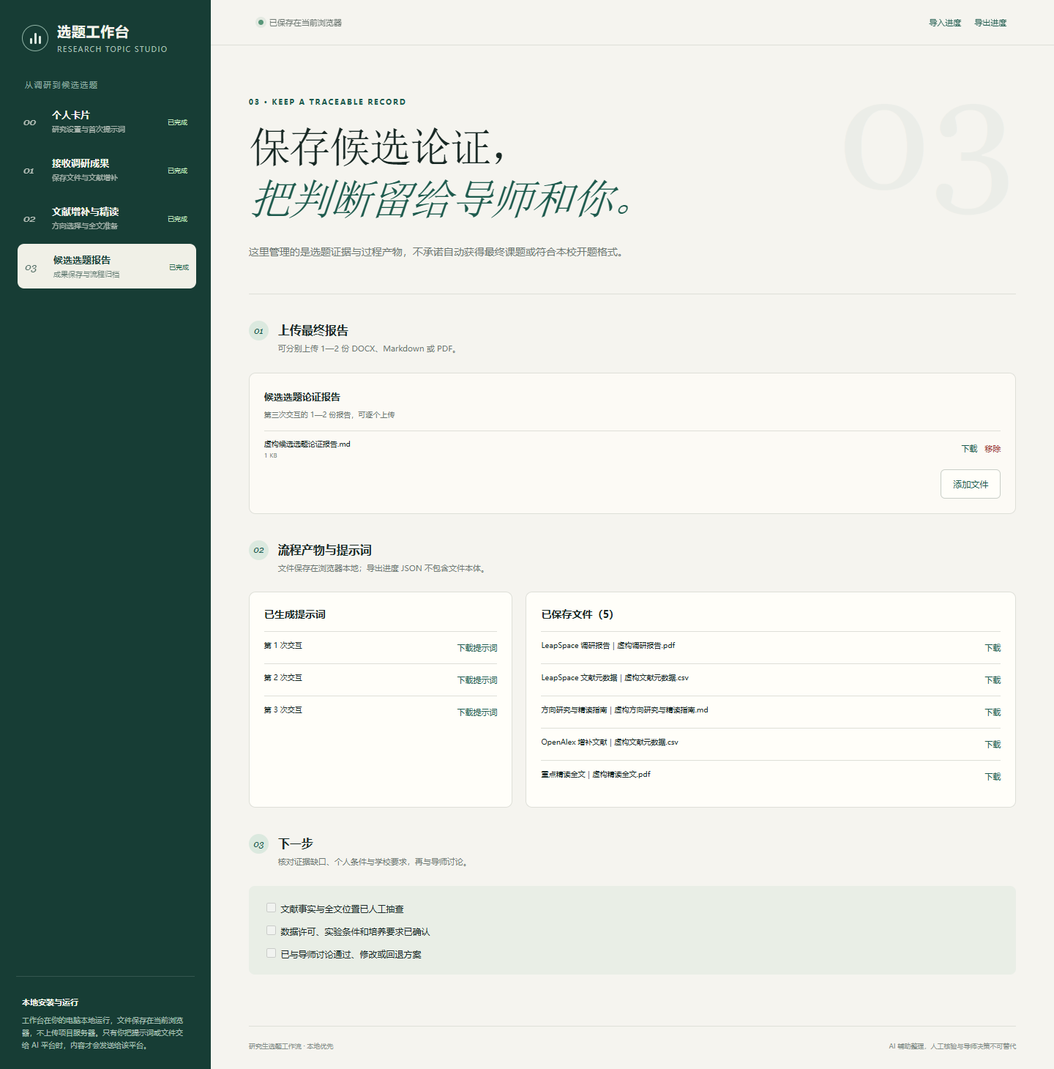
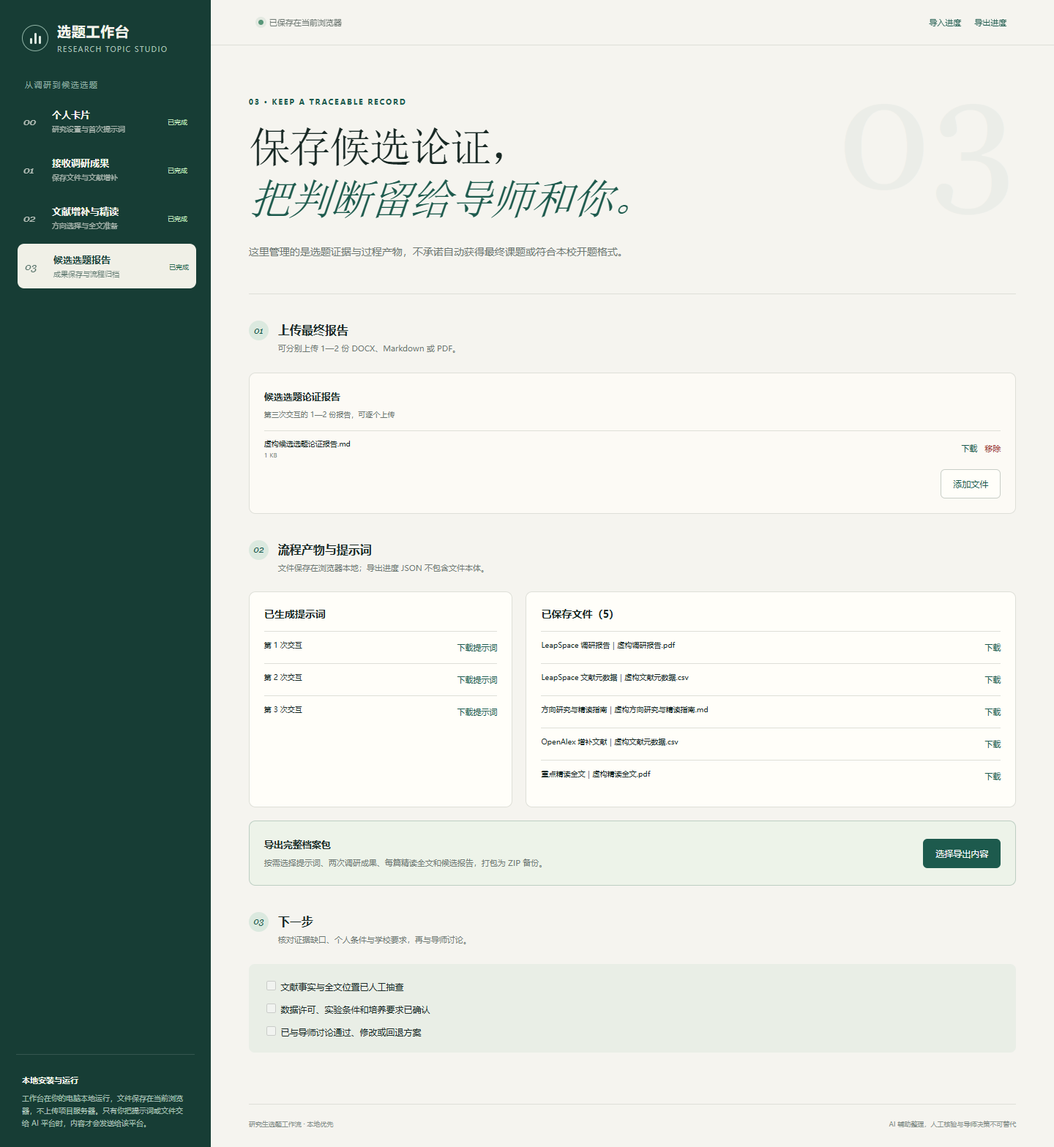
feat: add selective archive export

diff --git a/app/src/main.js b/app/src/main.js
@@ -2,6 +2,7 @@ import './style.css';
 import { hydrateState, demoProfile, demoDirections, artifactDefinitions, readingSlots, normalizeReadingCount } from './data.js';
 import { buildFirstPrompt, buildSecondPrompt, buildThirdPrompt } from './prompts.js';
 import { loadState, saveState as persistState, putFile, getFile, deleteFile, downloadBlob } from './storage.js';
+import { archiveEntries, createArchive, profileMarkdown } from './archive.js';
 
 let state = loadState();
 let toastTimer;
@@ -135,13 +136,21 @@ document.querySelector('#app').innerHTML = `
         ${artifactCard('finalReport')}
         <div class="section-heading"><div><span class="section-index">02</span><div><h2>流程产物与提示词</h2><p>文件保存在浏览器本地；导出进度 JSON 不包含文件本体。</p></div></div></div>
         <div id="archive-summary" class="archive-summary"></div>
+        <div class="archive-export-bar"><div><strong>导出完整档案包</strong><p>按需选择提示词、两次调研成果、每篇精读全文和候选报告，打包为 ZIP 备份。</p></div><button class="primary-button" id="open-archive-export">选择导出内容</button></div>
         <div class="section-heading"><div><span class="section-index">03</span><div><h2>下一步</h2><p>核对证据缺口、个人条件与学校要求，再与导师讨论。</p></div></div></div>
         <div class="final-checks"><label><input type="checkbox" disabled> 文献事实与全文位置已人工抽查</label><label><input type="checkbox" disabled> 数据许可、实验条件和培养要求已确认</label><label><input type="checkbox" disabled> 已与导师讨论通过、修改或回退方案</label></div>
       </section>
     </main>
     <footer><span>研究生选题工作流 · 本地优先</span><span>AI 辅助整理，人工核验与导师决策不可替代</span></footer>
   </div>
-</div><div id="toast" class="toast" role="status" aria-live="polite"></div>`;
+</div><div id="toast" class="toast" role="status" aria-live="polite"></div>
+<dialog id="archive-dialog" class="archive-dialog" aria-labelledby="archive-dialog-title">
+  <div class="archive-dialog-heading"><div><h2 id="archive-dialog-title">选择档案包内容</h2><p>所有已上传的中间产物都可以独立选择，默认全选。</p></div><button class="text-button" id="close-archive-dialog" aria-label="关闭导出窗口">关闭</button></div>
+  <div class="archive-selection-tools"><div><button class="subtle-button" id="archive-select-all">全选</button><button class="subtle-button" id="archive-select-none">清空</button></div><span id="archive-selected-count"></span></div>
+  <div id="archive-options" class="archive-options"></div>
+  <div class="privacy-note"><strong>档案包不包含工作台保存的 API key。</strong><span>进度 JSON 和生成的提示词会移除 key；上传文件按原内容打包，请自行检查敏感信息。ZIP 用于本地备份与文件取回，不是进度导入格式。</span></div>
+  <div class="archive-dialog-actions"><button class="secondary-button" id="cancel-archive-export">取消</button><button class="primary-button" id="confirm-archive-export">导出 ZIP</button></div>
+</dialog>`;
 
 function renderPrompt(name) {
   const output = document.querySelector(`#output-${name}`);
@@ -193,6 +202,50 @@ function renderArchive() {
   const readingFiles = Object.values(state.readings).flat().filter((item) => item.file).map((item) => ({ ...item.file, label: '重点精读全文' }));
   const all = [...files, ...readingFiles];
   document.querySelector('#archive-summary').innerHTML = `<div class="archive-prompts"><h3>已生成提示词</h3>${['first', 'second', 'third'].map((name, index) => `<div><span>第 ${index + 1} 次交互</span><button class="text-button" data-download-prompt="${name}" ${state.prompts[name] ? '' : 'disabled'}>下载提示词</button></div>`).join('')}</div><div class="archive-files"><h3>已保存文件（${all.length}）</h3>${all.length ? all.map((file) => `<div><span>${escapeHtml(file.label)}｜${escapeHtml(file.name)}</span><button class="text-button" data-download-file="${file.id}" data-file-name="${escapeHtml(file.name)}">下载</button></div>`).join('') : '<p>尚未保存文件。</p>'}</div>`;
+}
+
+function selectedArchiveIds() {
+  return [...document.querySelectorAll('[data-archive-entry]:checked')].map((input) => input.dataset.archiveEntry);
+}
+
+function updateArchiveSelection() {
+  const count = selectedArchiveIds().length;
+  document.querySelector('#archive-selected-count').textContent = `已选择 ${count} 项`;
+  document.querySelector('#confirm-archive-export').disabled = count === 0;
+}
+
+function renderArchiveExportOptions() {
+  const entries = archiveEntries(state);
+  const groups = new Map();
+  entries.forEach((entry) => {
+    if (!groups.has(entry.group)) groups.set(entry.group, []);
+    groups.get(entry.group).push(entry);
+  });
+  document.querySelector('#archive-options').innerHTML = [...groups.entries()].map(([group, items]) => `<section class="archive-option-group"><h3>${escapeHtml(group)}<span>${items.length} 项</span></h3>${items.map((entry) => `<label class="archive-option"><input type="checkbox" data-archive-entry="${escapeHtml(entry.id)}" checked><span><strong>${escapeHtml(entry.label)}</strong><small>${entry.kind === 'file' ? formatSize(entry.size) : entry.kind === 'prompt' ? '文本提示词' : '流程数据'}</small></span></label>`).join('')}</section>`).join('');
+  updateArchiveSelection();
+}
+
+async function exportArchive() {
+  const selectedIds = selectedArchiveIds();
+  if (!selectedIds.length) { showToast('请至少选择一项导出内容。', 'warning'); return; }
+  const button = document.querySelector('#confirm-archive-export');
+  button.disabled = true;
+  button.textContent = '正在打包…';
+  await new Promise((resolve) => requestAnimationFrame(resolve));
+  try {
+    const now = new Date();
+    const { blob, itemCount } = await createArchive(state, selectedIds, getFile, now);
+    const pad = (value) => String(value).padStart(2, '0');
+    const date = `${now.getFullYear()}-${pad(now.getMonth() + 1)}-${pad(now.getDate())}`;
+    downloadBlob(`研究生选题档案包-${date}.zip`, blob);
+    document.querySelector('#archive-dialog').close();
+    showToast(`档案包已导出，共 ${itemCount} 项；工作台保存的 API key 未包含在内。`);
+  } catch (error) {
+    showToast(error.code === 'MISSING_FILES' ? error.message : '档案包导出失败，请检查浏览器存储空间后重试。', 'warning');
+  } finally {
+    button.textContent = '导出 ZIP';
+    updateArchiveSelection();
+  }
 }
 
 function updateProgress() {
@@ -289,11 +342,6 @@ async function removeArtifact(key, id) {
   saveState();
 }
 
-function profileMarkdown() {
-  const p = state.profile;
-  return `# 个人卡片\n\n> 本地生成，包含个人研究条件。第三次提示词会使用这些信息，请妥善保管。\n\n## 培养与研究主题\n\n- 培养类型：${p.degreeType}\n- 学制：${p.duration} 年\n- 专业方向：${p.major}\n- 中文主题：${p.topicZh}\n- 英文主题词：${p.topicEn}\n\n## 课题组与个人基础\n\n- 课题组研究方向与基础：${p.groupDirections || '待补充'}\n- 已有数据：${p.dataFoundation || '待补充'}\n- 实验基础：${p.experimentFoundation || '待补充'}\n- 硬件基础：${p.hardware || '待补充'}\n- 个人目标：${p.goal || '待补充'}\n- 明确约束：${p.constraints || '待补充'}\n`;
-}
-
 document.addEventListener('click', async (event) => {
   const button = event.target.closest('button');
   if (!button) return;
@@ -340,12 +388,23 @@ document.addEventListener('click', async (event) => {
     });
     renderReadings(); markStale('third'); saveState();
   }
-  if (button.id === 'download-profile') downloadBlob('个人卡片.local.md', profileMarkdown(), 'text/markdown;charset=utf-8');
+  if (button.id === 'download-profile') downloadBlob('个人卡片.local.md', profileMarkdown(state.profile), 'text/markdown;charset=utf-8');
   if (button.id === 'export-state') {
     downloadBlob('选题工作台进度.json', JSON.stringify(state, null, 2), 'application/json;charset=utf-8');
     showToast(state.keyMode === 'direct' && state.apiKey ? '进度已导出；其中包含 API key，请勿公开分享。文件本体需另行下载。' : '进度已导出；文件本体需另行下载。', 'warning');
   }
   if (button.id === 'import-state') document.querySelector('#state-file').click();
+  if (button.id === 'open-archive-export') {
+    renderArchiveExportOptions();
+    document.querySelector('#archive-dialog').showModal();
+  }
+  if (button.id === 'close-archive-dialog' || button.id === 'cancel-archive-export') document.querySelector('#archive-dialog').close();
+  if (button.id === 'archive-select-all' || button.id === 'archive-select-none') {
+    const checked = button.id === 'archive-select-all';
+    document.querySelectorAll('[data-archive-entry]').forEach((input) => { input.checked = checked; });
+    updateArchiveSelection();
+  }
+  if (button.id === 'confirm-archive-export') await exportArchive();
 });
 
 document.addEventListener('input', (event) => {
@@ -394,6 +453,7 @@ document.addEventListener('change', async (event) => {
     markStale('second'); saveState();
   }
   if (input.id === 'key-consent') { state.keyConsent = input.checked; markStale('second'); saveState(); }
+  if (input.dataset.archiveEntry) updateArchiveSelection();
   if (input.dataset.artifact) { await uploadArtifact(input.dataset.artifact, [...input.files]); input.value = ''; }
   if (input.dataset.priority) {
     if (input.checked && state.selectedDirections.length >= 4) { input.checked = false; showToast('最多选择 4 个优先方向。', 'warning'); return; }

diff --git a/app/src/archive.js b/app/src/archive.js
@@ -1,0 +1,140 @@
+import { zipSync } from 'fflate';
+import { artifactDefinitions } from './data.js';
+import { getFile } from './storage.js';
+
+const promptDefinitions = [
+  { key: 'first', label: '第一次交互提示词', name: '第一次交互提示词.txt' },
+  { key: 'second', label: '第二次交互提示词', name: '第二次交互提示词.txt' },
+  { key: 'third', label: '第三次交互提示词', name: '第三次交互提示词.txt' },
+];
+
+const encoder = new TextEncoder();
+const encode = (text) => encoder.encode(text);
+
+function scrubSecret(text = '', apiKey = '') {
+  return String(text)
+    .replace(/(用户已明确选择在本次提示词中提供 OpenAlex API key：)[^\r\n]*/g, '$1[已移除 OpenAlex API key]')
+    .split(apiKey || '\u0000').join('[已移除 OpenAlex API key]');
+}
+
+export function sanitizeArchiveState(state) {
+  return {
+    ...state,
+    apiKey: '',
+    keyConsent: false,
+    prompts: Object.fromEntries(promptDefinitions.map(({ key }) => [key, scrubSecret(state.prompts[key], state.apiKey)])),
+  };
+}
+
+export function profileMarkdown(profile) {
+  return `# 个人卡片\n\n> 本地生成，包含个人研究条件。第三次提示词会使用这些信息，请妥善保管。\n\n## 培养与研究主题\n\n- 培养类型：${profile.degreeType}\n- 学制：${profile.duration} 年\n- 专业方向：${profile.major}\n- 中文主题：${profile.topicZh}\n- 英文主题词：${profile.topicEn}\n\n## 课题组与个人基础\n\n- 课题组研究方向与基础：${profile.groupDirections || '待补充'}\n- 已有数据：${profile.dataFoundation || '待补充'}\n- 实验基础：${profile.experimentFoundation || '待补充'}\n- 硬件基础：${profile.hardware || '待补充'}\n- 个人目标：${profile.goal || '待补充'}\n- 明确约束：${profile.constraints || '待补充'}\n`;
+}
+
+export function archiveEntries(state) {
+  const entries = [
+    { id: 'profile', kind: 'profile', group: '流程与提示词', label: '个人卡片（含个人研究条件）', name: '个人卡片.md' },
+    { id: 'progress', kind: 'progress', group: '流程与提示词', label: '流程进度 JSON（不含 API key）', name: '选题工作台进度.json' },
+  ];
+  promptDefinitions.forEach((definition) => {
+    if (state.prompts[definition.key]) entries.push({ ...definition, id: `prompt:${definition.key}`, kind: 'prompt', group: '流程与提示词' });
+  });
+  artifactDefinitions.forEach((definition) => {
+    const value = state.artifacts[definition.key];
+    const files = !value ? [] : Array.isArray(value) ? value : [value];
+    files.forEach((file) => entries.push({
+      id: file.id, kind: 'file', group: definition.step === 'step1' ? '第一次调研成果' : definition.step === 'step2' ? '第二次调研成果' : '候选选题报告',
+      label: `${definition.label}｜${file.name}`, name: file.name, size: file.size, file, stage: definition.step,
+    }));
+  });
+  state.directions.forEach((direction) => {
+    (state.readings[direction.id] || []).forEach((reading) => {
+      if (!reading.file) return;
+      entries.push({
+        id: reading.file.id, kind: 'file', group: '重点精读全文',
+        label: `${direction.name || '未命名方向'}｜${reading.title || reading.file.name}`, name: reading.file.name,
+        size: reading.file.size, file: reading.file, stage: 'reading', directionName: direction.name || '未命名方向', readingTitle: reading.title || '',
+      });
+    });
+  });
+  return entries;
+}
+
+function safeName(name, fallback = '未命名文件') {
+  const cleaned = String(name || '').replace(/[<>:"/\\|?*\u0000-\u001F]/g, '_').replace(/[. ]+$/g, '').trim();
+  return (cleaned || fallback).slice(0, 120);
+}
+
+function uniquePath(path, used) {
+  const extensionIndex = path.lastIndexOf('.');
+  const stem = extensionIndex > path.lastIndexOf('/') ? path.slice(0, extensionIndex) : path;
+  const extension = extensionIndex > path.lastIndexOf('/') ? path.slice(extensionIndex) : '';
+  let candidate = path;
+  let index = 2;
+  while (used.has(candidate.toLowerCase())) {
+    candidate = `${stem} (${index})${extension}`;
+    index += 1;
+  }
+  used.add(candidate.toLowerCase());
+  return candidate;
+}
+
+function entryPath(entry, used) {
+  if (entry.kind === 'profile') return uniquePath('流程数据/个人卡片.md', used);
+  if (entry.kind === 'progress') return uniquePath('流程数据/选题工作台进度.json', used);
+  if (entry.kind === 'prompt') return uniquePath(`提示词/${safeName(entry.name)}`, used);
+  if (entry.stage === 'reading') return uniquePath(`03_精读全文/${safeName(entry.directionName, '未命名方向')}/${safeName(entry.name)}`, used);
+  const folder = { step1: '01_第一次调研', step2: '02_第二次调研', step3: '04_候选报告' }[entry.stage] || '其他文件';
+  return uniquePath(`${folder}/${safeName(entry.name)}`, used);
+}
+
+function entryText(state, entry) {
+  if (entry.kind === 'profile') return profileMarkdown(state.profile);
+  if (entry.kind === 'progress') return JSON.stringify(sanitizeArchiveState(state), null, 2);
+  return scrubSecret(state.prompts[entry.key], state.apiKey);
+}
+
+export async function createArchive(state, selectedIds, readFile = getFile, now = new Date()) {
+  const selected = new Set(selectedIds);
+  const entries = archiveEntries(state).filter((entry) => selected.has(entry.id));
+  if (!entries.length) throw new Error('EMPTY_ARCHIVE');
+  const used = new Set(['档案清单.json', '档案说明.txt']);
+  const files = {};
+  const manifestFiles = [];
+  const missing = [];
+  for (const entry of entries) {
+    const path = entryPath(entry, used);
+    if (entry.kind === 'file') {
+      const content = await readFile(entry.file.id);
+      if (!content) {
+        missing.push(entry.label);
+        continue;
+      }
+      files[path] = new Uint8Array(await content.arrayBuffer());
+    } else {
+      files[path] = encode(entryText(state, entry));
+    }
+    manifestFiles.push({
+      path,
+      kind: entry.kind,
+      stage: entry.stage || entry.key || entry.kind,
+      name: entry.name,
+      size: entry.size ?? files[path].byteLength,
+      direction: entry.directionName,
+      readingTitle: entry.readingTitle,
+    });
+  }
+  if (missing.length) {
+    const error = new Error(`有 ${missing.length} 个文件本体缺失，请重新上传或取消选择后重试。`);
+    error.code = 'MISSING_FILES';
+    error.missing = missing;
+    throw error;
+  }
+  const manifest = {
+    format: 'graduate-topic-workflow-archive', version: 1, exportedAt: now.toISOString(),
+    apiKeyIncluded: false, itemCount: manifestFiles.length, files: manifestFiles,
+  };
+  files['档案清单.json'] = encode(JSON.stringify(manifest, null, 2));
+  files['档案说明.txt'] = encode(`研究生选题工作台完整档案包\n\n导出时间：${now.toLocaleString('zh-CN')}\n已选择内容：${manifestFiles.length} 项\n\n工作台生成的进度 JSON 和提示词已移除 OpenAlex API key。上传文件按原内容打包，请自行检查其中是否含有账号、key 或其他敏感信息。\n个人卡片、进度和第三次提示词可能包含个人研究条件；精读全文请遵守文献使用权限。\n本 ZIP 用于本地备份与文件取回，不是“导入进度”所使用的 JSON 格式。\n`);
+  const bytes = zipSync(files, { level: 0 });
+  return { blob: new Blob([bytes], { type: 'application/zip' }), itemCount: manifestFiles.length };
+}

diff --git a/app/src/style.css b/app/src/style.css
@@ -94,6 +94,17 @@ h2 { font-size: 16px; margin: 2px 0 0; font-weight: 650; } h3 { font-size: 14px;
 .archive-summary { display: grid; grid-template-columns: .7fr 1.3fr; gap: 18px; } .archive-prompts, .archive-files { padding: 20px; border: 1px solid var(--line); border-radius: 9px; background: var(--paper); }
 .archive-prompts h3, .archive-files h3 { margin-top: 0; } .archive-prompts > div, .archive-files > div { display: flex; justify-content: space-between; gap: 10px; padding: 11px 0; border-top: 1px solid var(--line); font-size: 10px; }
 .archive-files p { color: var(--muted); font-size: 11px; } .final-checks { display: grid; gap: 12px; padding: 20px; background: #e9eee6; border-radius: 8px; font-size: 12px; }
+.archive-export-bar { display: flex; align-items: center; justify-content: space-between; gap: 22px; margin-top: 18px; padding: 20px; border: 1px solid #bdcec2; border-radius: 9px; background: #edf3e9; }
+.archive-export-bar strong { font-size: 13px; } .archive-export-bar p { margin: 7px 0 0; color: var(--muted); font-size: 11px; line-height: 1.7; }
+.archive-dialog { width: min(720px,92vw); max-height: 86vh; padding: 26px; border: 1px solid var(--line); border-radius: 12px; background: var(--paper); color: var(--ink); overflow: auto; box-shadow: 0 24px 80px rgba(20,42,34,.24); }
+.archive-dialog::backdrop { background: rgba(16,38,32,.52); backdrop-filter: blur(3px); }
+.archive-dialog-heading, .archive-selection-tools, .archive-dialog-actions { display: flex; align-items: center; justify-content: space-between; gap: 16px; }
+.archive-dialog-heading h2 { margin: 0; font-size: 20px; } .archive-dialog-heading p { margin: 8px 0 0; color: var(--muted); font-size: 11px; line-height: 1.6; }
+.archive-selection-tools { margin: 24px 0 16px; } .archive-selection-tools > div { display: flex; gap: 8px; } #archive-selected-count { color: var(--green); font-size: 11px; }
+.archive-options { display: grid; gap: 18px; } .archive-option-group h3 { display: flex; justify-content: space-between; margin: 0; padding-bottom: 9px; border-bottom: 1px solid var(--line); font-size: 13px; }
+.archive-option-group h3 span { color: var(--muted); font-size: 10px; font-weight: 400; } .archive-option { display: flex; align-items: flex-start; gap: 10px; padding: 11px 4px; border-bottom: 1px solid #ecece6; cursor: pointer; }
+.archive-option input { margin-top: 3px; accent-color: var(--green); } .archive-option strong { display: block; font-size: 11px; line-height: 1.6; overflow-wrap: anywhere; } .archive-option small { display: block; margin-top: 3px; color: var(--muted); font-size: 9px; }
+.archive-dialog .privacy-note { margin-top: 22px; } .archive-dialog-actions { justify-content: flex-end; margin-top: 22px; }
 footer { width: min(1050px,91%); margin: 0 auto; border-top: 1px solid var(--line); padding: 20px 0 26px; display: flex; justify-content: space-between; gap: 20px; color: #87918c; font-size: 9px; }
 .toast { position: fixed; left: 50%; bottom: 28px; transform: translate(-50%,20px); z-index: 50; background: #193d35; color: white; border-radius: 7px; padding: 12px 18px; font-size: 11px; box-shadow: 0 12px 32px rgba(20,42,34,.2); opacity: 0; pointer-events: none; transition: opacity .2s,transform .2s; max-width: min(560px,90vw); line-height: 1.6; }
 .toast.show { opacity: 1; transform: translate(-50%,0); } .toast.warning { background: #8b5b28; }
@@ -105,5 +116,6 @@ footer { width: min(1050px,91%); margin: 0 auto; border-top: 1px solid var(--lin
   .form-grid,.artifact-grid,.key-options,.priority-list,.archive-summary { grid-template-columns: 1fr; } .field.wide { grid-column: auto; } .settings-grid { max-width: 100%; }
   .action-bar { align-items: flex-start; flex-direction: column; } .action-bar .primary-button { width: 100%; } .output-actions { flex-direction: column; } .output-actions button { width: 100%; }
   .direction-fields { grid-template-columns: 1fr; } .reading-row { grid-template-columns: 24px 1fr; } .reading-row select,.file-mini,.reading-file { grid-column: 2; } footer { flex-direction: column; gap: 7px; }
+  .archive-export-bar { align-items: flex-start; flex-direction: column; } .archive-export-bar .primary-button { width: 100%; } .archive-dialog { padding: 18px; } .archive-dialog-actions button { flex: 1; }
 }
 @media (max-width: 430px) { main,footer { width: 90%; } .top-actions { gap: 10px !important; } #save-status { display: none; } .section-heading,.output-heading { align-items: flex-start; } .output-badge { display: none; } .output-area { padding: 18px; } .direction-row { grid-template-columns: 25px 1fr; } .direction-row > button { grid-column: 2; justify-self: end; } }

diff --git a/README.md b/README.md
@@ -71,7 +71,7 @@ npm run dev
 | **00 个人卡片** | 填研究主题、培养方案、已有基础、个人目标和约束 | 个人卡片、第一次 LeapSpace 提示词 |
 | **01 接收调研成果** | 上传第一次交互的 PDF／CSV，录入 4—6 个方向 | 原始成果、方向清单、第二次 OpenAlex 增补提示词 |
 | **02 文献增补与精读** | 上传 MD／CSV，选择 2—4 个方向，按设置数量登记每方向重点文献 | 精读清单与全文状态、第三次选题收敛提示词 |
-| **03 候选选题报告** | 上传第三次交互返回的 1—2 份报告，完成人工检查 | 候选选题论证报告与过程档案 |
+| **03 候选选题报告** | 上传第三次交互返回的 1—2 份报告，完成人工检查 | 候选选题论证报告、过程档案与可选内容的 ZIP 档案包 |
 
 工作台不做 CSV 字段转换、自动质量评分或人工选种；第一次原始成果直接保存，减少重复劳动和字段失真。
 
@@ -120,7 +120,7 @@ npm run dev
 
 **准备：**第三次交互返回的 1—2 份候选选题论证报告，支持 DOCX、Markdown 或 PDF。
 
-上传报告后，可以集中下载三次提示词和各阶段已保存文件。最后仍需人工抽查文献事实与全文位置，确认数据许可、实验条件、培养要求，并与导师讨论通过、修改或回退方案。
+上传报告后，可以导出带清单的 ZIP 档案包。个人卡片、脱敏进度、三次提示词、各阶段调研成果、每篇精读全文和每份候选报告均可独立勾选，默认全选。工作台生成的进度和提示词会移除 OpenAlex key；上传文件按原内容导出，敏感信息仍需自行检查。最后仍需人工抽查文献事实与全文位置，确认数据许可、实验条件、培养要求，并与导师讨论通过、修改或回退方案。
 
 ![03 候选选题报告完整演示](docs/assets/readme/step-03-candidate-reports.png)
 </details>
@@ -134,7 +134,7 @@ npm run dev
 | 个人卡片 | 当前浏览器 | 仅进入第三次提示词；复制给 AI 平台后发送 |
 | OpenAlex key | 默认不保存；推荐环境变量 | 便捷模式下会写入第二次提示词并发送给所选 AI 服务 |
 
-- JSON 进度备份**不包含文件本体**；便捷模式下导出的进度会包含 key。
+- 单独的 JSON 进度备份**不包含文件本体**；便捷模式下直接导出的进度会包含 key。ZIP 档案包中的进度与提示词会移除 key，但不能直接作为进度导入。
 - 本地运行不等于绝对无风险。提示词或文件交给外部 AI 平台后，应遵守该平台的数据规则。
 - 公开仓库不包含真实 key、个人卡片、论文全文、校内文件或私人测试附件。
 

diff --git a/docs/privacy.md b/docs/privacy.md
@@ -6,6 +6,15 @@
 
 “本地运行”只表示工作台自身不主动把这些数据上传到项目服务器。你把提示词或文件复制、上传给外部 AI 平台后，相应内容会离开本机，并受该平台规则约束。
 
+## 完整档案包
+
+**03 候选选题报告**中的“导出完整档案包”会把勾选的过程数据、提示词和上传文件整理为带清单的 ZIP：
+
+- 工作台生成的个人卡片、进度和提示词可以独立勾选；档案中的进度 JSON 与提示词会移除当前 OpenAlex key，并清理第二次提示词中可能残留的旧 key。
+- 上传的 PDF、CSV、MD、DOCX 等文件按原始内容打包，工作台不扫描、不改写文件本体；导出前仍应自行检查其中的个人信息、版权材料和敏感数据。
+- 个人卡片、第三次提示词和论文全文可能包含敏感或受限内容，不应因为 key 已清理就直接公开分享。
+- 文件本体缺失时会中止导出，不会静默生成不完整档案；ZIP 是备份与文件取回格式，不能直接作为进度 JSON 导入。
+
 ## 个人卡片
 
 个人卡片包含培养方案、课题组基础、数据与设备、个人目标和选题约束：

diff --git a/docs/development.md b/docs/development.md
@@ -24,11 +24,12 @@ npm run dev -- --host 127.0.0.1 --port 7100
 
 ```bash
 npm run test:prompt
+npm run test:archive
 npm run build
 npm run test:smoke
 ```
 
-覆盖范围：三次提示词、个人信息隔离、500 字符限制、key 两种模式、102 条虚构 CSV 保存、累计文献继承、每方向精读数量下限、2 个优先方向从 10 个调整为 14 个精读槽位、调整数量时保留题名、全文分级、持久化、进度导入导出、桌面与移动端。
+覆盖范围：三次提示词、个人信息隔离、500 字符限制、key 两种模式、102 条虚构 CSV 保存、累计文献继承、每方向精读数量下限、2 个优先方向从 10 个调整为 14 个精读槽位、调整数量时保留题名、全文分级、持久化、进度导入导出、完整与子集 ZIP 实际下载、逐文件选择、目录与清单、同名文件去重、缺失文件拦截、key 清理，以及桌面与移动端。
 
 测试完全使用虚构数据，不读取私有 CSV，不调用 LeapSpace、OpenAlex 或大模型。通过测试不证明外部 AI 的检索与科研结论正确。
 

diff --git a/docs/usage.md b/docs/usage.md
@@ -47,5 +47,5 @@
 1. 将第三次返回的 1—2 份报告上传到 **03 候选选题报告**。
 2. 核对题目、科学问题、研究现状、研究内容、可行性、风险和参考文献。
 3. 抽查文献事实是否能追溯到元数据或全文位置，确认数据、设备、时间和合规条件。
-4. 下载需要归档的提示词与文件。JSON 进度备份不含文件本体。
+4. 点击“导出完整档案包”，在“选择导出内容”中按需勾选个人卡片、脱敏进度、三次提示词、各阶段调研成果、精读全文与候选报告，导出带档案清单的 ZIP。所有项目默认全选，也可逐项取消。ZIP 仅用于备份和取回文件，不能直接作为进度导入；单独的 JSON 进度备份仍不含文件本体。
 5. 与导师讨论通过、修改或回退方案；最终课题不由工作台或 AI 决定。
